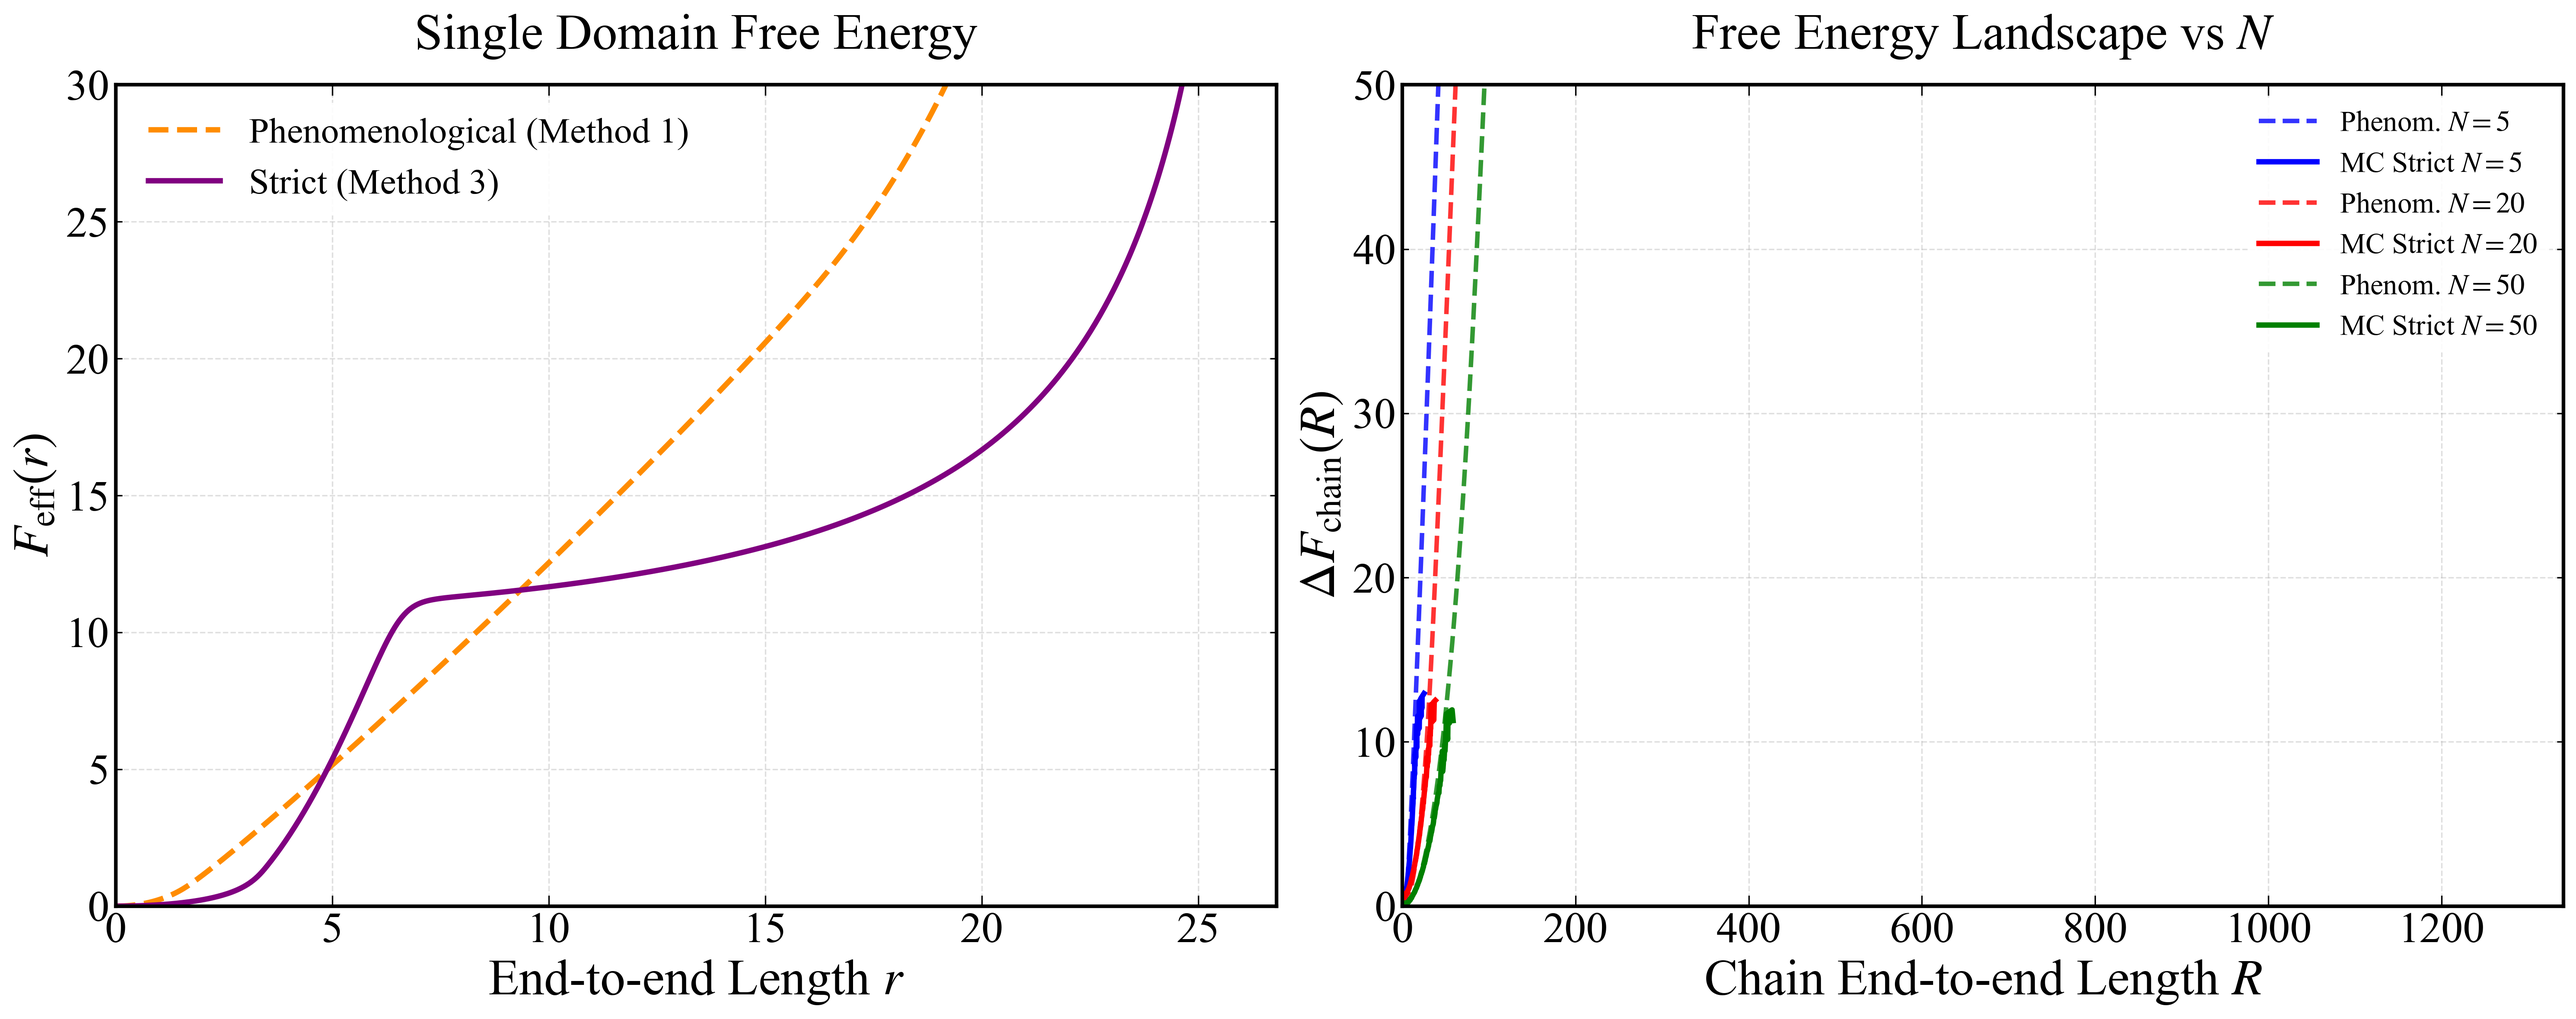
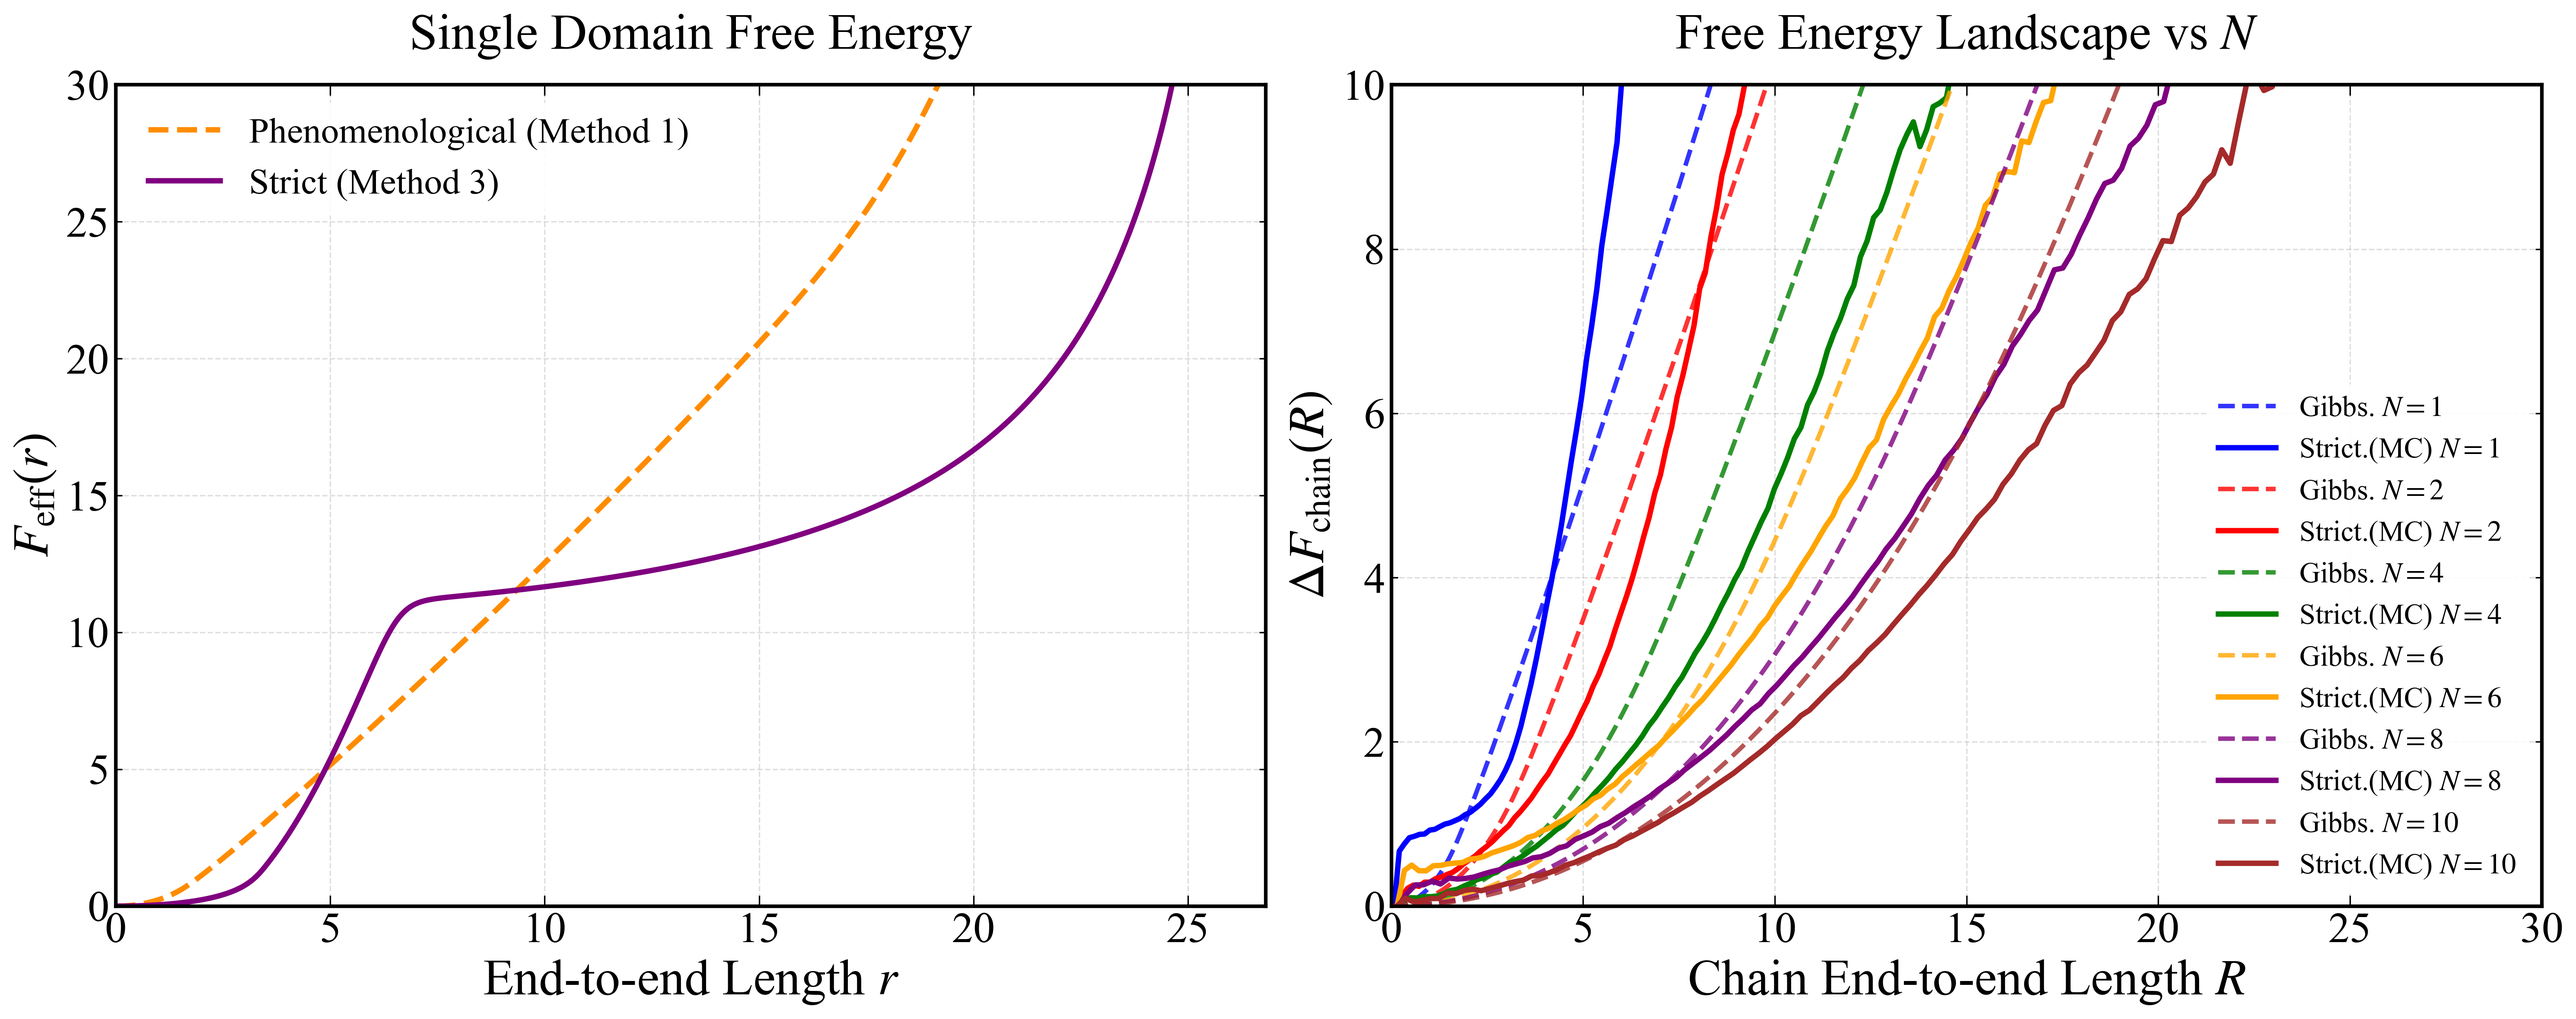
Modification

diff --git a/GB1_results/Single_chain/Distribution_N_domains.py b/GB1_results/Single_chain/Distribution_N_domains.py
@@ -157,9 +157,9 @@ def calc_mc_chain_Feff(N, M_samples, r_grid, F_eff_r):
 
 # ===================== 可视化对比 =====================
 def plot_N_comparison(output_dir):
-    N_list = [5, 20, 50]  # 需要对比的链长
-    M_samples = 200000    # 蒙特卡洛采样次数
-    colors = ['blue', 'red', 'green']
+    N_list = [1, 2, 4, 6, 8, 10]  # 需要对比的链长
+    M_samples = 1000000    # 蒙特卡洛采样次数
+    colors = ['blue', 'red', 'green', 'orange', 'purple', 'brown']
     
     fig, (ax1, ax2) = plt.subplots(1, 2, figsize=(20, 8))
     
@@ -195,15 +195,15 @@ def plot_N_comparison(output_dir):
         
         # 绘制曲线
         ax2.plot(R_phe_chain, F_phe_chain_aligned, '--', color=colors[i], 
-                 label=f'Phenom. $N={N}$', linewidth=2.5, alpha=0.8)
+                 label=f'Gibbs. $N={N}$', linewidth=2.5, alpha=0.8)
         ax2.plot(R_mc_chain, F_mc_chain_aligned, '-', color=colors[i], 
-                 label=f'MC Strict $N={N}$', linewidth=3)
+                 label=f'Strict.(MC) $N={N}$', linewidth=3)
         
     ax2.set_xlabel('Chain End-to-end Length $R$', fontsize=label_fontsize)
     ax2.set_ylabel('$\\Delta F_{\\text{chain}}(R)$', fontsize=label_fontsize)
     ax2.set_title('Free Energy Landscape vs $N$', fontsize=title_fontsize, pad=20)
-    ax2.set_xlim(0, max(N_list) * r_max_single)
-    ax2.set_ylim(0, 50)
+    ax2.set_xlim(0, 30)
+    ax2.set_ylim(0, 10)
     ax2.grid(True, ls="--", alpha=grid_alpha)
     ax2.legend(fontsize=16, framealpha=0.9, edgecolor='none')
     

diff --git a/GB1_results/Single_chain/Free_energy_compare.py b/GB1_results/Single_chain/Free_energy_compare.py
@@ -178,7 +178,7 @@ def calc_method4_adiabatic(r_grid):
             continue
             
         n_min = (r / xi_f - 1) / (mu - 1)
-        n_min = max(0.0, n_min + 1e-4)
+        n_min = max(0.0, n_min)
         
         res = minimize_scalar(lambda n: F_d(r, n), bounds=(n_min, 1.0), method='bounded')
         F_min = res.fun
